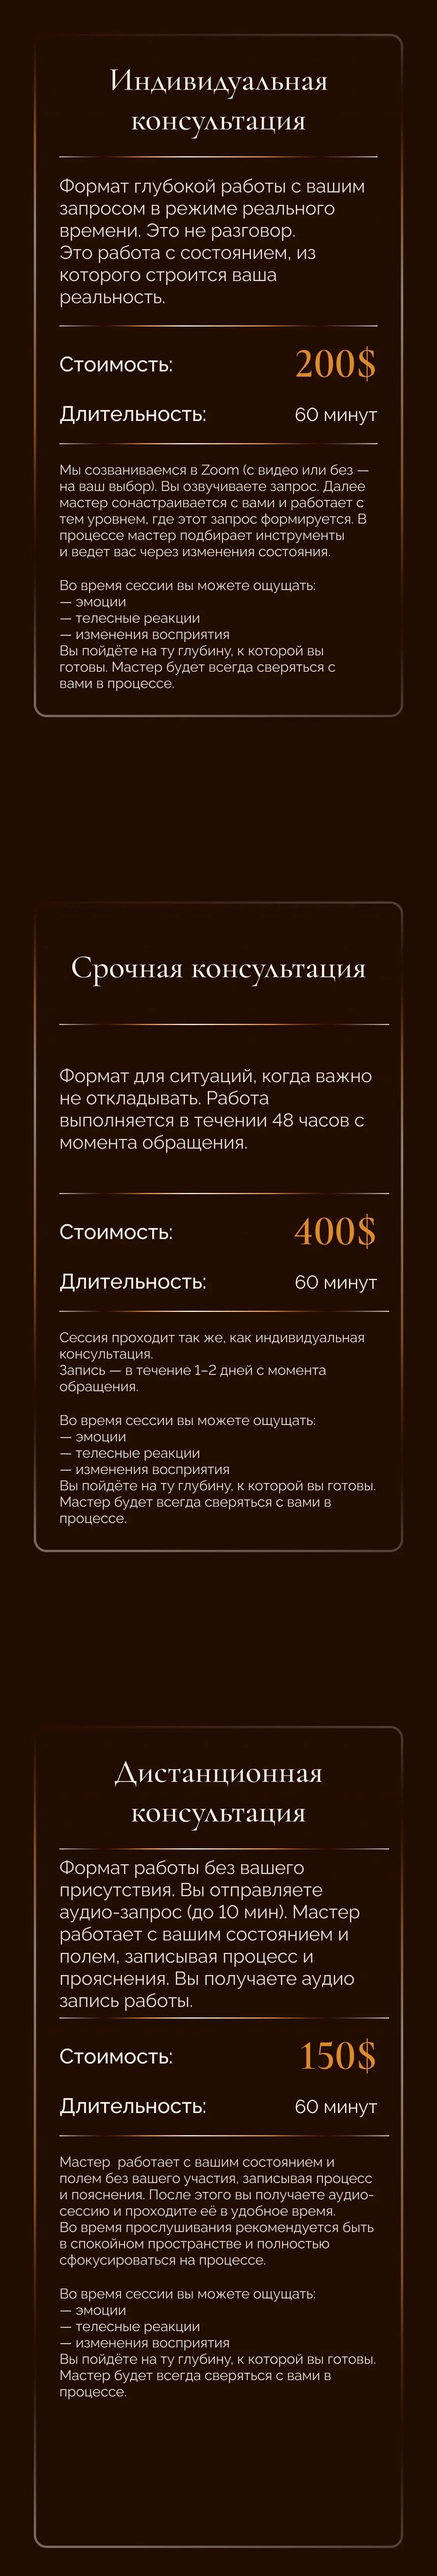
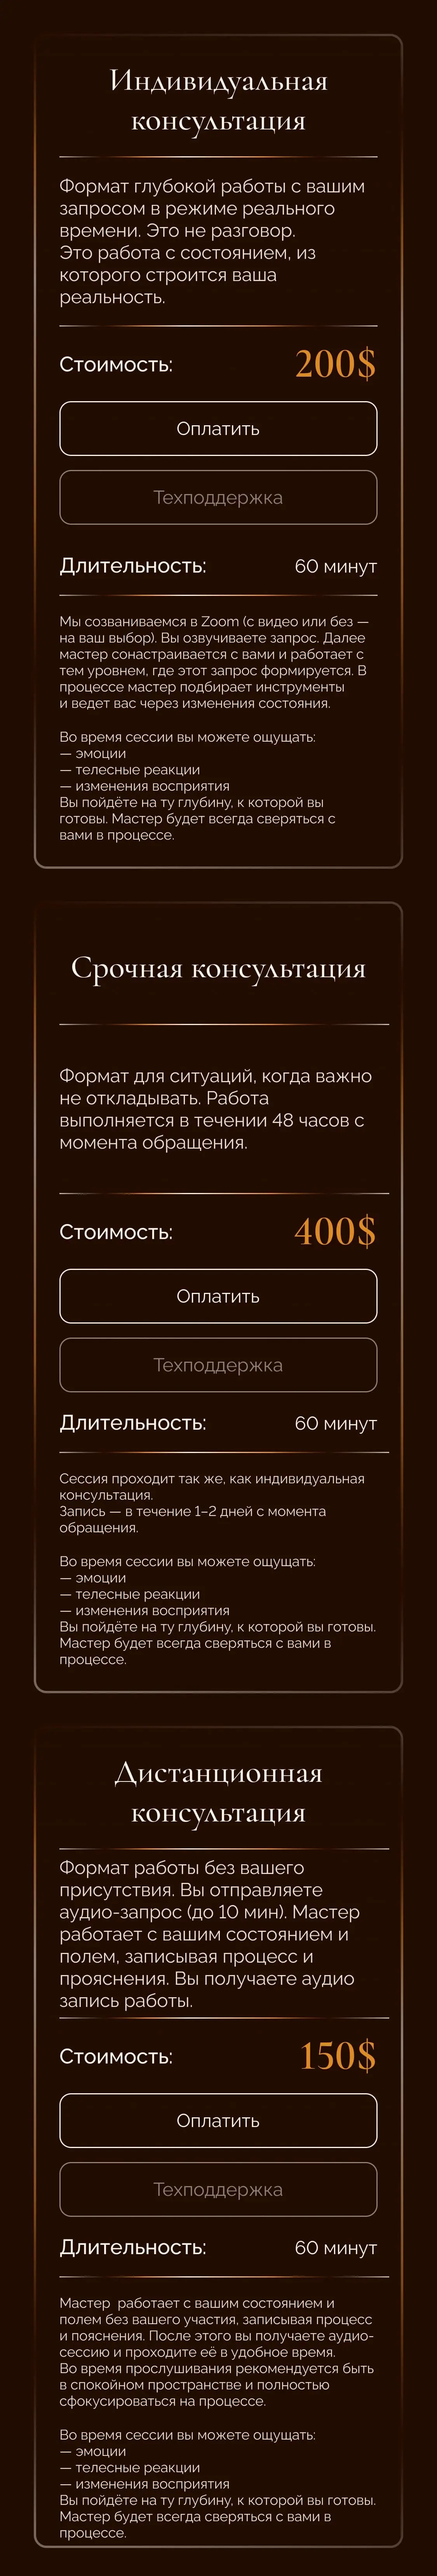
Mobile UI prep for presentation: privacy page, footer, consultation buttons, s6/s11 (#11)
- New /privacy page with RU/UA/EN backgrounds (compressed)
- Footer: split legal block — /offer and /privacy; Next <Link> + bigger tap zones for mobile (60px)
- Consultation mobile c2.jpg replaced 1:1 from reference, 6 cons-hit zones repositioned (15.57/17.66/49.25/51.34/81.26/83.34%) linking to t.me/medvedieva_anna
- Added Оплатить/Техподдержка PNG buttons (RU/UA/EN)
- Mobile s12.jpg replaced 1:1 from reference, unified single-block footer; hidden duplicate PNG overlays
- S6 'Метод' button: warm glass fill + contrast boost instead of dark patch
- S11 'Перейти' button: rotating conic-gradient border animation (3.2s; 1.8s on hover) with reduced-motion fallback

diff --git a/src/app/globals.css b/src/app/globals.css
@@ -196,6 +196,13 @@ main {
   box-shadow: none;
   margin: 0;
   padding: 0;
+  /* Header is fixed 72px desktop / 56px mobile — offset anchor scrolls so
+     the top of baked-in JPG text (S3 kicker, S4/S8 titles) isn't hidden
+     behind the header when menu links scroll to a section. */
+  scroll-margin-top: 72px;
+}
+@media (max-width: 768px) {
+  .section { scroll-margin-top: 56px; }
 }
 
 /* Desktop / Mobile image switching */
@@ -396,6 +403,93 @@ img.desktop-only { display: block !important; }
   animation-play-state: paused;
 }
 
+/* S6 "Метод" button — PNG outline is thin + low-contrast on the bright
+   bokeh background. Tint the fill with warm cream glass (matches site
+   palette, NOT a dark blob) so the pill lifts off the photo, and push
+   the outline/text darker via a filter so "Метод" reads clearly. */
+.s6-btn-overlay {
+  background: rgba(255, 245, 225, 0.42);
+  -webkit-backdrop-filter: blur(6px) saturate(1.1);
+          backdrop-filter: blur(6px) saturate(1.1);
+  box-shadow:
+    inset 0 0 0 1px rgba(100, 60, 20, 0.22),
+    0 3px 14px rgba(100, 60, 20, 0.22);
+}
+.s6-btn-overlay > img {
+  filter:
+    contrast(2.0) saturate(1.25)
+    drop-shadow(0 1px 1px rgba(50, 25, 5, 0.45));
+}
+@keyframes s6MethodBreath {
+  0%, 100% {
+    box-shadow:
+      inset 0 0 0 1px rgba(100, 60, 20, 0.22),
+      0 3px 14px rgba(100, 60, 20, 0.22),
+      0 0 0      rgba(var(--glow-warm), 0);
+  }
+  50% {
+    box-shadow:
+      inset 0 0 0 1px rgba(100, 60, 20, 0.32),
+      0 3px 18px rgba(100, 60, 20, 0.30),
+      0 0 24px   rgba(var(--glow-warm), 0.55);
+  }
+}
+.s6-btn-overlay {
+  animation: s6MethodBreath 4.5s ease-in-out infinite;
+}
+.s6-btn-overlay:hover {
+  animation-play-state: paused;
+}
+
+/* S11 "Перейти" buttons — rotating conic sweep traces the border ring.
+   The button already has overflow:hidden + border-radius, so the effect
+   lives on ::before inside the bounds and is masked to show only as a
+   thin ring along the edge. */
+@property --s11-angle {
+  syntax: '<angle>';
+  initial-value: 0deg;
+  inherits: false;
+}
+
+@keyframes s11BorderRun {
+  to { --s11-angle: 360deg; }
+}
+
+/* Fallback for browsers without @property — rotate the whole pseudo. */
+@keyframes s11BorderRunFallback {
+  to { transform: rotate(360deg); }
+}
+
+.s11-btn-overlay::before {
+  content: '';
+  position: absolute;
+  inset: 0;
+  border-radius: inherit;
+  padding: 1.5px;
+  background: conic-gradient(
+    from var(--s11-angle, 0deg),
+    transparent 0deg,
+    transparent 260deg,
+    rgba(var(--glow-warm), 0.95) 315deg,
+    transparent 360deg
+  );
+  -webkit-mask:
+    linear-gradient(#000 0 0) content-box,
+    linear-gradient(#000 0 0);
+          mask:
+    linear-gradient(#000 0 0) content-box,
+    linear-gradient(#000 0 0);
+  -webkit-mask-composite: xor;
+          mask-composite: exclude;
+  animation: s11BorderRun 3.2s linear infinite;
+  pointer-events: none;
+  z-index: 1;
+}
+
+.s11-btn-overlay:hover::before {
+  animation-duration: 1.8s;
+}
+
 /* Scroll-reveal for below-the-fold buttons — CSS-only via view-timeline.
    Modern browsers (Chrome 115+, Edge 115+) play a gentle fade+rise as each
    button enters the viewport. Safari/Firefox get instant display (graceful
@@ -430,8 +524,20 @@ img.desktop-only { display: block !important; }
 
 @media (prefers-reduced-motion: reduce) {
   .s1-btn-overlay,
+  .s6-btn-overlay,
   .s7-btn-consult {
     animation: none;
+  }
+  .s6-btn-overlay {
+    filter: brightness(1.18) contrast(1.06);
+  }
+  .s11-btn-overlay::before {
+    animation: none;
+    background: conic-gradient(
+      transparent 260deg,
+      rgba(var(--glow-warm), 0.6) 315deg,
+      transparent 360deg
+    );
   }
   .s1-btn-overlay,
   .s6-btn-overlay,
@@ -607,6 +713,8 @@ img.desktop-only { display: block !important; }
   cursor: pointer;
   z-index: 11;
   transition: background 0.5s var(--ease-luxe);
+  -webkit-tap-highlight-color: rgba(var(--glow-warm), 0.22);
+  touch-action: manipulation;
 }
 
 /* Legal links — no animation, just a gentle brightness lift on hover. */
@@ -633,21 +741,44 @@ img.desktop-only { display: block !important; }
   .s7-btn-about { bottom: 10.5%; }
   .s7-btn-consult { bottom: 3.8%; }
 
-  /* S11 mobile | ref: 11.png (375×1239) — stacked full-width */
+  /* S11 mobile | ref: 11.png (375×1239) — stacked full-width.
+     Card text in the JPG ends at 30.6% / 51.9% / 75.1% from top;
+     buttons sit in the dark gap just below each card. */
   .s11-btn-overlay { left: 6.7% !important; width: 86.7% !important; }
-  .s11-btn-1 { bottom: 67.6%; }
-  .s11-btn-2 { bottom: 35.4%; }
-  .s11-btn-3 { bottom: 5.2%; }
+  .s11-btn-1 { bottom: 64.5%; }
+  .s11-btn-2 { bottom: 43.5%; }
+  .s11-btn-3 { bottom: 20%; }
 
-  /* S12 mobile | ref: подвал моб версия референс.png (1125×1800 aka 375×600).
-     Artwork (book card, social icons, legal links) is baked into the JPG
-     background. These blocks are invisible click zones aligned to that art. */
-  /* Mobile footer: clean JPG background + separate transparent PNG buttons
-     overlaid on top. Positions measured from `главная страница подвал моб фон.png`
-     (1125×1893). PNG dims drive height; aspect-ratio removed. */
-  .s12-book-overlay { left: 12%; width: 54%; bottom: 27%; aspect-ratio: auto; }
-  .s12-social-block { left: 12%; width: 50%; bottom: 18%; aspect-ratio: auto; }
-  .s12-legal-block { left: 3%; width: 84%; bottom: 9%; aspect-ratio: auto; }
+  /* S12 mobile | ref: подвал моб версия референс.png (1125×1800).
+     Footer background IS the reference image — book card, social icons,
+     legal links, and © line are all BAKED into s12.jpg. Overlay PNGs on
+     mobile would double-draw the text, so the <img> children are hidden
+     below; the anchors remain as invisible click zones. */
+  .s12-footer { aspect-ratio: 1125 / 1800 !important; }
+
+  .s12-book-overlay > img.mobile-only,
+  .s12-social-block > img,
+  .s12-legal-block > img.mobile-only {
+    display: none !important;
+  }
+  /* Icons are drawn in the JPG — clear the CSS background on each hit zone
+     so we don't paint them a second time in the overlay. Keep the element
+     for clicks / hover glow. */
+  .s12-social-hit {
+    background-image: none !important;
+    animation: none !important;
+  }
+
+  /* Book card ("Читать книгу / ДНК РЕАЛЬНОСТИ") — center-right band at
+     ~61-68% from top of the 1800-tall JPG. */
+  .s12-book-overlay  { left: 40%; width: 50%; top: 61%; bottom: auto; height: 7%; aspect-ratio: auto; }
+  /* Social icons — right half of the REALITY DNA / icons row (~69-74%). */
+  .s12-social-block  { left: 45%; width: 50%; top: 69%; bottom: auto; height: 5.5%; }
+  /* Legal links — full-width row at ~78-81%. */
+  /* Legal hit zone is ~20px tall at the baked text row — too small for a
+     reliable mobile tap. Expand vertically around the text so taps just
+     above or below the text still register. */
+  .s12-legal-block   { left: 0%;  width: 100%; top: 74.5%; bottom: auto; height: 10%; aspect-ratio: auto; }
 }
 
 .section-bg-img {
@@ -2337,7 +2468,7 @@ img.desktop-only { display: block !important; }
   #s9  { aspect-ratio: 375 / 994 !important; }
   #s10 { aspect-ratio: 375 / 788 !important; }
   #s11 { aspect-ratio: 375 / 1239 !important; }
-  .s12-footer { aspect-ratio: 1125 / 1893 !important; }
+  .s12-footer { aspect-ratio: 1125 / 1800 !important; }
 
   /* === HEADER === */
   .site-header {
@@ -2876,8 +3007,10 @@ main[data-lang="ua"] .cons-support { top: 51.09%; }
     height: auto !important;
   }
 
-  /* === Mobile — 375 × 2105…2184 per language ===
-     Button rect 261×46. Horizontal same across langs; verticals per-lang. */
+  /* === Mobile — 375 × 2209 per language ===
+     Button rect 261×46. Pills are DRAWN inside c2 mobile JPG now (the
+     exported 1125×6627 reference), so .cons-hit stays fully transparent —
+     just a click zone aligned to each drawn pill. */
   .cons-hit   { height: 2.15%; }
   .cons-col-1,
   .cons-col-2,
@@ -2886,27 +3019,27 @@ main[data-lang="ua"] .cons-support { top: 51.09%; }
     width: 69.6% !important;
   }
 
-  /* RU mobile — 375×2184 reference */
-  main[data-lang="ru"] .cons-col-1.cons-pay     { top: 14.88%; }
-  main[data-lang="ru"] .cons-col-1.cons-support { top: 17.58%; }
-  main[data-lang="ru"] .cons-col-2.cons-pay     { top: 48.44%; }
-  main[data-lang="ru"] .cons-col-2.cons-support { top: 51.14%; }
-  main[data-lang="ru"] .cons-col-3.cons-pay     { top: 79.81%; }
-  main[data-lang="ru"] .cons-col-3.cons-support { top: 82.51%; }
+  /* Measured from `индивидуальная консультация моб версия референс.png`
+     (top stroke of each pill / 6627 img height). Same asset is used for
+     all three languages for now; revisit when UA/EN references land. */
+  main[data-lang="ru"] .cons-col-1.cons-pay     { top: 15.57%; }
+  main[data-lang="ru"] .cons-col-1.cons-support { top: 17.66%; }
+  main[data-lang="ru"] .cons-col-2.cons-pay     { top: 49.25%; }
+  main[data-lang="ru"] .cons-col-2.cons-support { top: 51.34%; }
+  main[data-lang="ru"] .cons-col-3.cons-pay     { top: 81.26%; }
+  main[data-lang="ru"] .cons-col-3.cons-support { top: 83.34%; }
 
-  /* EN mobile — 375×2105 reference */
-  main[data-lang="en"] .cons-col-1.cons-pay     { top: 13.82%; }
-  main[data-lang="en"] .cons-col-1.cons-support { top: 16.63%; }
-  main[data-lang="en"] .cons-col-2.cons-pay     { top: 50.26%; }
-  main[data-lang="en"] .cons-col-2.cons-support { top: 53.06%; }
-  main[data-lang="en"] .cons-col-3.cons-pay     { top: 81.33%; }
-  main[data-lang="en"] .cons-col-3.cons-support { top: 84.13%; }
+  main[data-lang="en"] .cons-col-1.cons-pay     { top: 15.57%; }
+  main[data-lang="en"] .cons-col-1.cons-support { top: 17.66%; }
+  main[data-lang="en"] .cons-col-2.cons-pay     { top: 49.25%; }
+  main[data-lang="en"] .cons-col-2.cons-support { top: 51.34%; }
+  main[data-lang="en"] .cons-col-3.cons-pay     { top: 81.26%; }
+  main[data-lang="en"] .cons-col-3.cons-support { top: 83.34%; }
 
-  /* UA mobile — 375×2153 reference */
-  main[data-lang="ua"] .cons-col-1.cons-pay     { top: 15.09%; }
-  main[data-lang="ua"] .cons-col-1.cons-support { top: 17.84%; }
-  main[data-lang="ua"] .cons-col-2.cons-pay     { top: 49.14%; }
-  main[data-lang="ua"] .cons-col-2.cons-support { top: 51.88%; }
-  main[data-lang="ua"] .cons-col-3.cons-pay     { top: 81.10%; }
-  main[data-lang="ua"] .cons-col-3.cons-support { top: 83.84%; }
+  main[data-lang="ua"] .cons-col-1.cons-pay     { top: 15.57%; }
+  main[data-lang="ua"] .cons-col-1.cons-support { top: 17.66%; }
+  main[data-lang="ua"] .cons-col-2.cons-pay     { top: 49.25%; }
+  main[data-lang="ua"] .cons-col-2.cons-support { top: 51.34%; }
+  main[data-lang="ua"] .cons-col-3.cons-pay     { top: 81.26%; }
+  main[data-lang="ua"] .cons-col-3.cons-support { top: 83.34%; }
 }

diff --git a/src/app/consultation/page.tsx b/src/app/consultation/page.tsx
@@ -3,7 +3,7 @@ import Image from "next/image";
 import { useTranslation } from '@/components/LanguageProvider';
 import Footer from '@/components/Footer';
 
-const ASSET_VERSION = '20260418-hq3x';
+const ASSET_VERSION = '20260420-c2-ref';
 const v = (p: string) => `${p}?v=${ASSET_VERSION}`;
 
 function consultPath(type: 'desk' | 'mob', section: number, lang: string): string {
@@ -63,14 +63,14 @@ export default function ConsultationPage() {
           {n === 2 && (
             <>
               {/* Card 1 — Индивидуальная */}
-              <a href="#" aria-label={tr('consult_pay')}     className="cons-hit cons-pay cons-col-1" />
-              <a href="#" aria-label={tr('consult_support')} className="cons-hit cons-support cons-col-1" />
+              <a href="https://t.me/medvedieva_anna" target="_blank" rel="noopener noreferrer" aria-label={tr('consult_pay')}     className="cons-hit cons-pay cons-col-1" />
+              <a href="https://t.me/medvedieva_anna" target="_blank" rel="noopener noreferrer" aria-label={tr('consult_support')} className="cons-hit cons-support cons-col-1" />
               {/* Card 2 — Срочная */}
-              <a href="#" aria-label={tr('consult_pay')}     className="cons-hit cons-pay cons-col-2" />
-              <a href="#" aria-label={tr('consult_support')} className="cons-hit cons-support cons-col-2" />
+              <a href="https://t.me/medvedieva_anna" target="_blank" rel="noopener noreferrer" aria-label={tr('consult_pay')}     className="cons-hit cons-pay cons-col-2" />
+              <a href="https://t.me/medvedieva_anna" target="_blank" rel="noopener noreferrer" aria-label={tr('consult_support')} className="cons-hit cons-support cons-col-2" />
               {/* Card 3 — Дистанционная */}
-              <a href="#" aria-label={tr('consult_pay')}     className="cons-hit cons-pay cons-col-3" />
-              <a href="#" aria-label={tr('consult_support')} className="cons-hit cons-support cons-col-3" />
+              <a href="https://t.me/medvedieva_anna" target="_blank" rel="noopener noreferrer" aria-label={tr('consult_pay')}     className="cons-hit cons-pay cons-col-3" />
+              <a href="https://t.me/medvedieva_anna" target="_blank" rel="noopener noreferrer" aria-label={tr('consult_support')} className="cons-hit cons-support cons-col-3" />
             </>
           )}
         </section>

diff --git a/src/app/privacy/page.tsx b/src/app/privacy/page.tsx
@@ -1,0 +1,49 @@
+'use client';
+import Image from "next/image";
+import { useTranslation } from '@/components/LanguageProvider';
+import Footer from '@/components/Footer';
+
+const ASSET_VERSION = '20260420-privacy';
+const v = (p: string) => `${p}?v=${ASSET_VERSION}`;
+
+function privacyPath(lang: string): string {
+  const langDir = lang === 'ru' ? '' : `/${lang}`;
+  return v(`/images/backgrounds/privacy${langDir}/privacy.jpg`);
+}
+
+export default function PrivacyPage() {
+  const { lang } = useTranslation();
+
+  return (
+    <main>
+      <section
+        className="consult-section"
+        style={{ aspectRatio: '4320 / 4185', background: '#f5f0eb' }}
+      >
+        <div className="s10-bg desktop-only">
+          <Image
+            src={privacyPath(lang)}
+            alt=""
+            fill
+            sizes="100vw"
+            style={{ objectFit: 'cover', objectPosition: 'center top' }}
+            quality={90}
+            priority
+          />
+        </div>
+        <div className="s10-bg mobile-only">
+          <Image
+            src={privacyPath(lang)}
+            alt=""
+            fill
+            sizes="100vw"
+            style={{ objectFit: 'cover', objectPosition: 'center top' }}
+            quality={90}
+            priority
+          />
+        </div>
+      </section>
+      <Footer />
+    </main>
+  );
+}

diff --git a/src/components/Footer.tsx b/src/components/Footer.tsx
@@ -1,5 +1,6 @@
 'use client';
 import Image from "next/image";
+import Link from "next/link";
 import { useTranslation } from '@/components/LanguageProvider';
 import { bgDesktop, bgMobile, btnDesktop, btnMobile } from '@/lib/imagePaths';
 import SeoText from '@/components/SeoText';
@@ -31,8 +32,8 @@ export default function Footer() {
       <div className="s12-legal-block">
         <img className="desktop-only" src={btnDesktop(12, lang, 'oferta')} alt="" draggable={false} />
         <img className="mobile-only" src={btnMobile(12, lang, 'oferta')} alt="" draggable={false} />
-        <a href="/offer" className="s12-legal-hit s12-legal-left" aria-label="Публичная оферта" />
-        <a href="/offer" className="s12-legal-hit s12-legal-right" aria-label="Политика конфиденциальности" />
+        <Link href="/offer"   className="s12-legal-hit s12-legal-left"  aria-label="Публичная оферта"><span className="sr-only">Публичная оферта</span></Link>
+        <Link href="/privacy" className="s12-legal-hit s12-legal-right" aria-label="Политика конфиденциальности"><span className="sr-only">Политика конфиденциальности</span></Link>
       </div>
     </footer>
   );

diff --git a/src/lib/imagePaths.ts b/src/lib/imagePaths.ts
@@ -2,7 +2,7 @@ import type { Lang } from './translations';
 
 // Bump this when replacing image assets to force browser cache refresh.
 // Format: YYYYMMDD-sequence
-const ASSET_VERSION = '20260419-s3-hq';
+const ASSET_VERSION = '20260420-footer-ref';
 const v = (p: string) => `${p}?v=${ASSET_VERSION}`;
 
 // Fallback order: use dedicated folder if exists, else fall back to RU (default).
